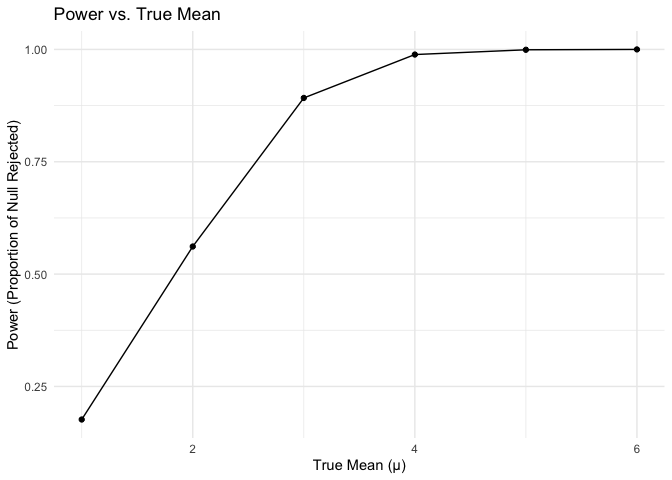
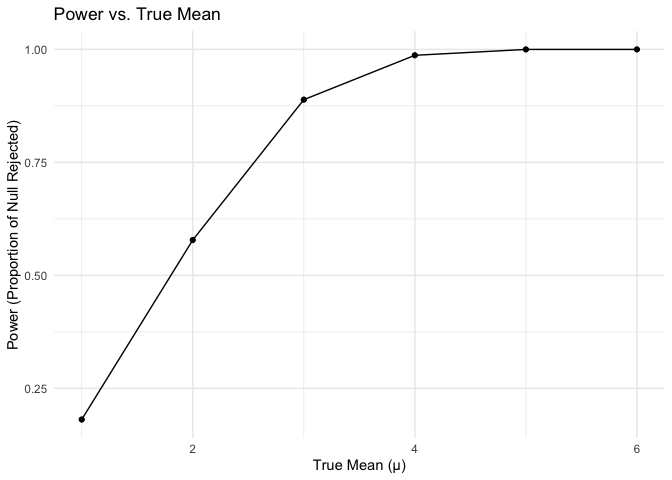
Revision in P2

diff --git a/p8105_hw5_tc3326.md b/p8105_hw5_tc3326.md
@@ -35,16 +35,16 @@ simulation_results_mu_0
     ## # A tibble: 5,000 × 3
     ##     iter sample_mean p_value
     ##    <int>       <dbl>   <dbl>
-    ##  1     1       0.853  0.386 
-    ##  2     2      -0.527  0.511 
-    ##  3     3       1.42   0.0725
-    ##  4     4      -1.04   0.292 
-    ##  5     5      -1.34   0.156 
-    ##  6     6      -0.649  0.550 
-    ##  7     7       1.27   0.136 
-    ##  8     8      -1.65   0.0470
-    ##  9     9      -0.246  0.783 
-    ## 10    10      -0.651  0.485 
+    ##  1     1      0.879   0.345 
+    ##  2     2      0.612   0.443 
+    ##  3     3      0.582   0.466 
+    ##  4     4      0.0825  0.944 
+    ##  5     5      0.227   0.817 
+    ##  6     6     -0.378   0.707 
+    ##  7     7      1.31    0.162 
+    ##  8     8      1.69    0.0863
+    ##  9     9     -0.100   0.919 
+    ## 10    10      0.836   0.322 
     ## # ℹ 4,990 more rows
 
 ``` r
@@ -63,16 +63,16 @@ sim_res_multiple_means
     ## # A tibble: 30,000 × 4
     ##    true_mean  iter simulation_output_sample_mean simulation_output_p_value
     ##        <dbl> <int>                         <dbl>                     <dbl>
-    ##  1         1     1                         1.22                     0.173 
-    ##  2         1     2                        -0.289                    0.752 
-    ##  3         1     3                         1.64                     0.0701
-    ##  4         1     4                         1.25                     0.193 
-    ##  5         1     5                         1.83                     0.0588
-    ##  6         1     6                         1.54                     0.0872
-    ##  7         1     7                         1.17                     0.163 
-    ##  8         1     8                         0.997                    0.186 
-    ##  9         1     9                         0.541                    0.591 
-    ## 10         1    10                         0.875                    0.304 
+    ##  1         1     1                         0.533                   0.524  
+    ##  2         1     2                         1.10                    0.273  
+    ##  3         1     3                         0.337                   0.757  
+    ##  4         1     4                         0.723                   0.413  
+    ##  5         1     5                         1.18                    0.214  
+    ##  6         1     6                         1.39                    0.112  
+    ##  7         1     7                         1.07                    0.184  
+    ##  8         1     8                        -0.563                   0.471  
+    ##  9         1     9                         2.93                    0.00558
+    ## 10         1    10                         0.532                   0.518  
     ## # ℹ 29,990 more rows
 
 ### Plot: Power of Test vs. True Mean
@@ -94,8 +94,9 @@ power_plot <- sim_res_multiple_means %>%
 power_plot
 ```
 
-![](p8105_hw5_tc3326_files/figure-gfm/unnamed-chunk-4-1.png)<!-- --> \*
-As the effect size increases, the power of the test also increases. As
+![](p8105_hw5_tc3326_files/figure-gfm/unnamed-chunk-4-1.png)<!-- -->
+
+\*As the effect size increases, the power of the test also increases. As
 the effect size grows (the difference between the true mean and the null
 hypothesis mean of 0 becomes larger), the test becomes more likely to
 reject the null hypothesis, resulting in higher power. Also, there is
